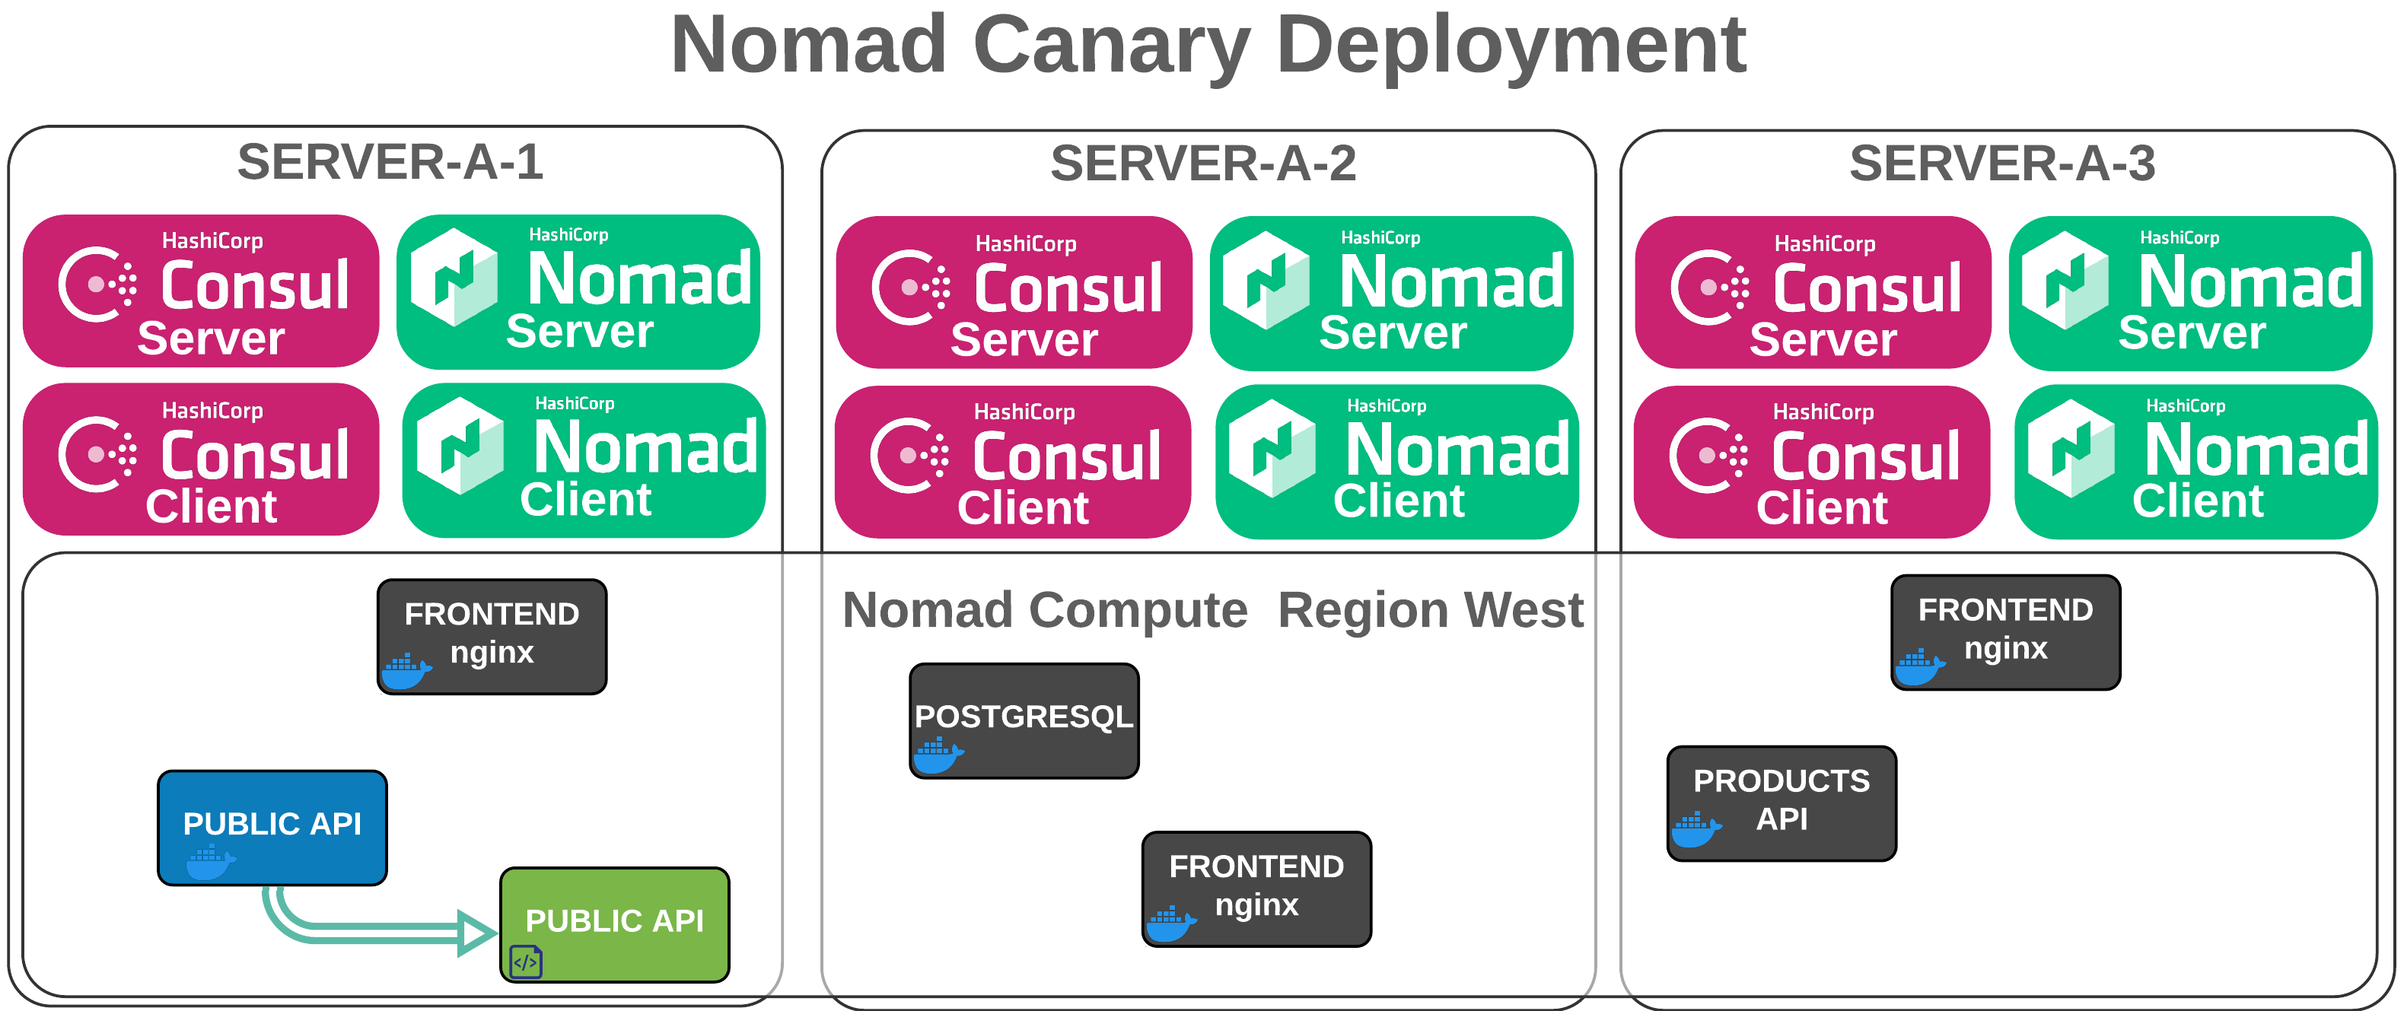
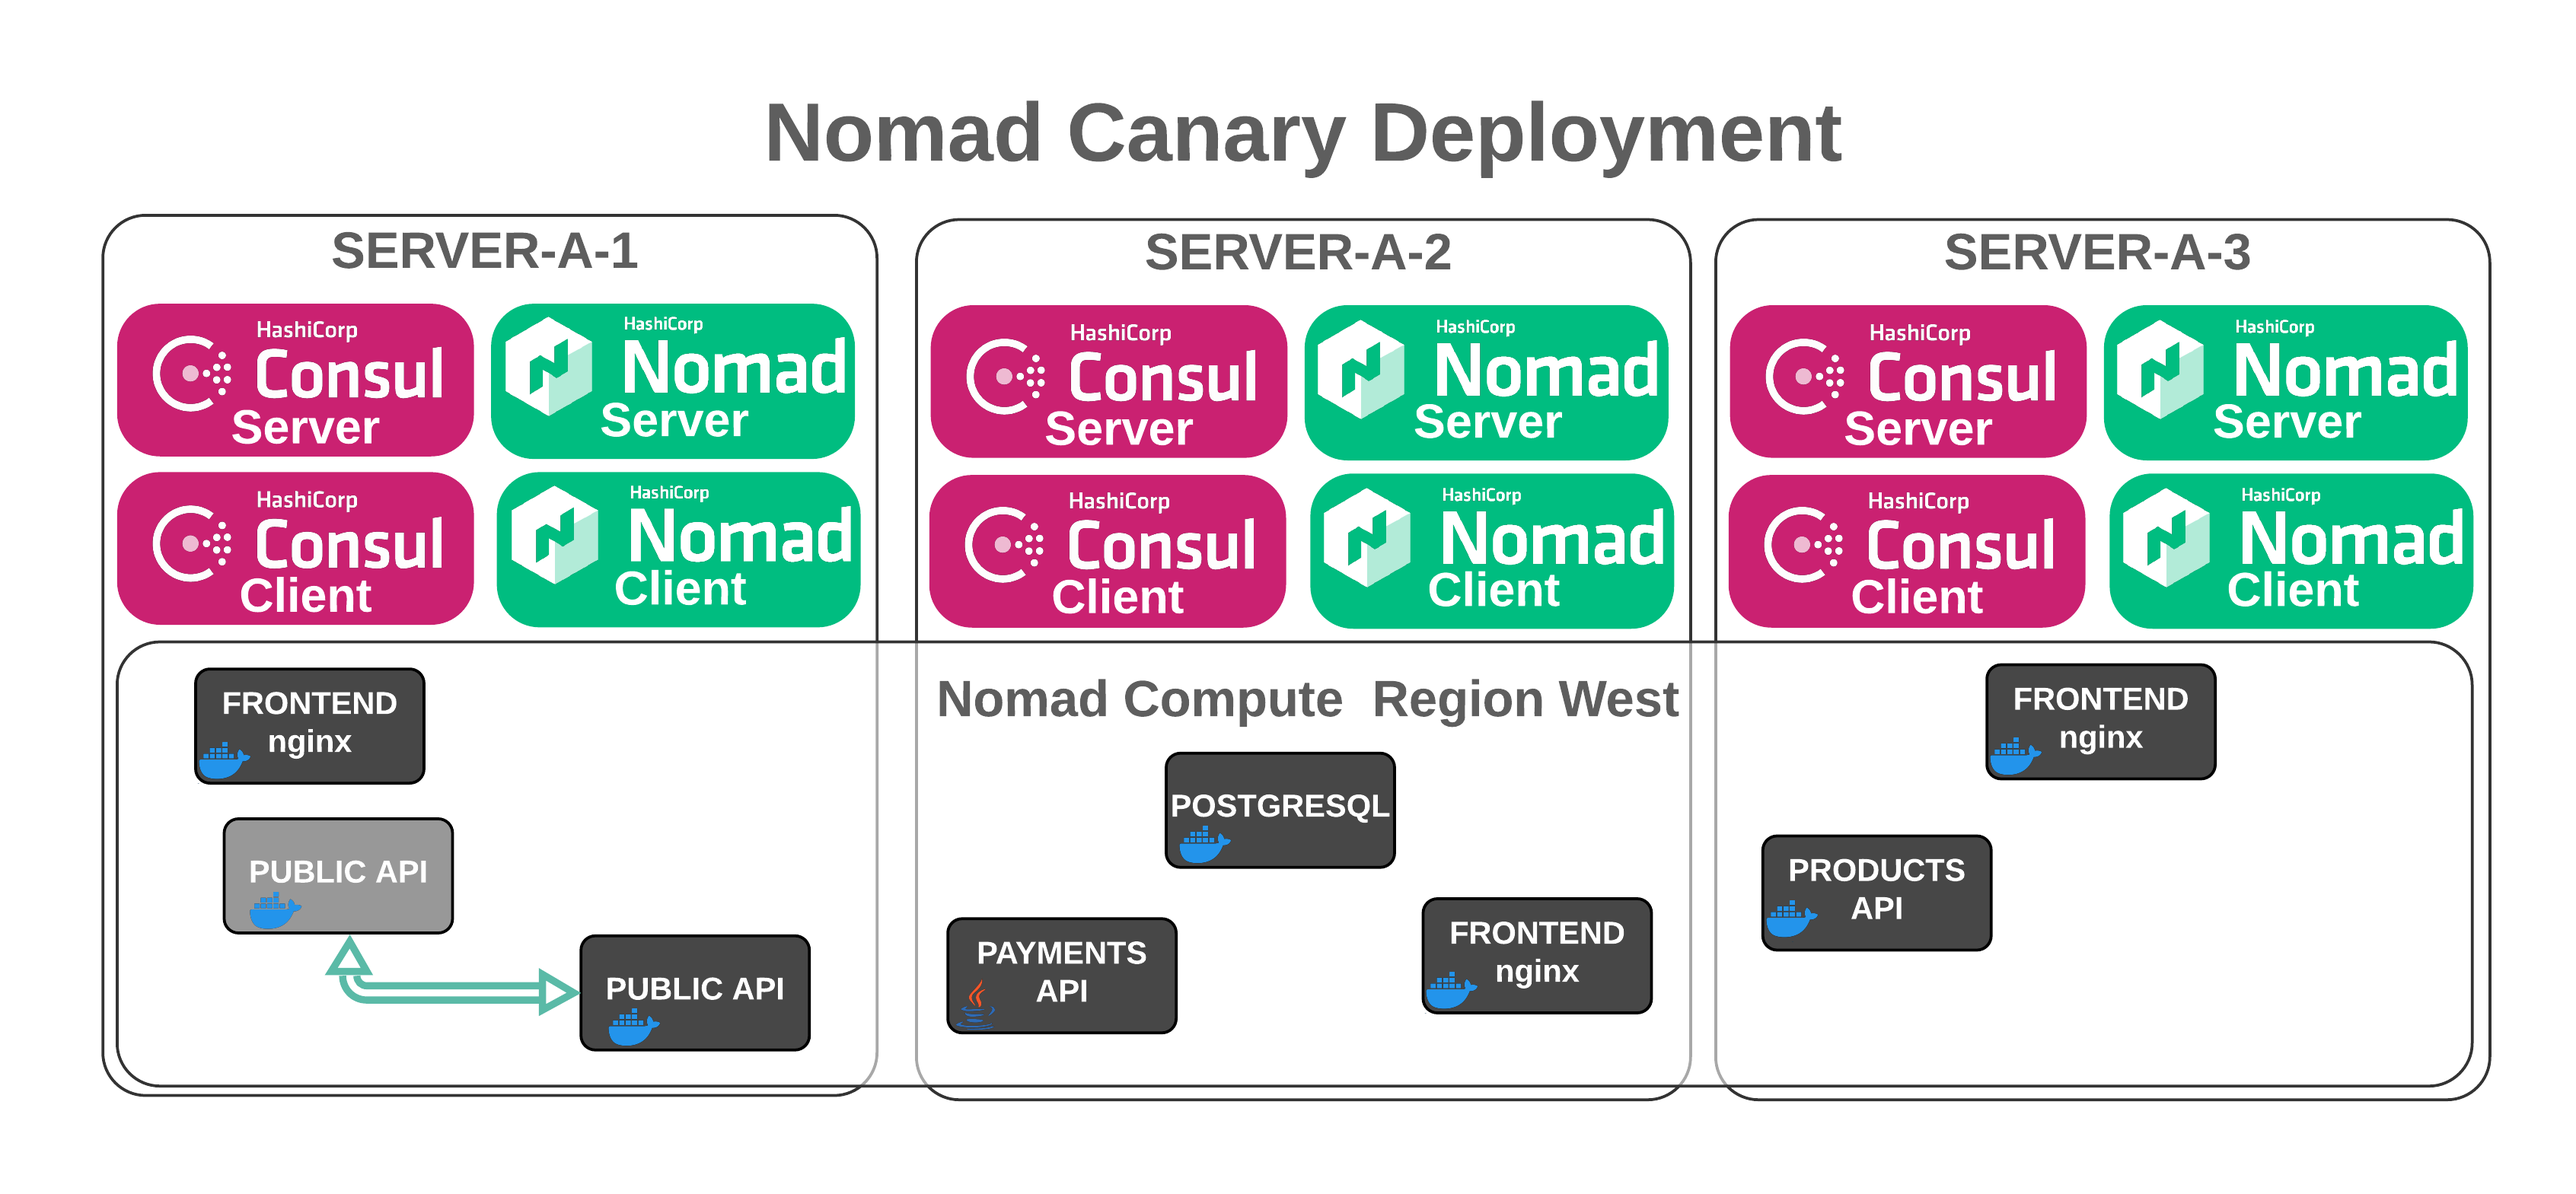
Updated images and slide deck

diff --git a/docs/slides/nomad-drifter.md b/docs/slides/nomad-drifter.md
@@ -49,7 +49,7 @@ name: current-state
 
 
 * HashiCups is 100% Container Based
-* Public API Function Needs Modification
+* Need Support for Online Payment
 * Management need us to expand across regions
 ]
 .center[![:scale 75%](images/LockedContainer.png)]
@@ -57,7 +57,7 @@ name: current-state
 ???
 Currently we are using an application to sell a lifesaving drug - caffeine.  The application is called 'HashiCups' and we found it on Github somewhere. Unfortunately we didn't find any working cloud access keys, the developers must have been using Vault.
 
-The challenge we are having is that although we saved a ton of money finding this application, it's all container based, and we aren't container specialists.  If we could just use the application as is, that wouldn't be a problem, but we need to modify the Public API functionality for our needs.
+The challenge we are having is that although we saved a ton of money finding this application, it's all container based, and we aren't container specialists.  If we could just use the application as is, that wouldn't be a problem, but we need to add the ability to process payments online.
 
 Also, management has pushed us for world domination, so we'll have to get the application working in another region without having to manage multiple databases and synchronization.  Oh my oh my what is an engineer to do?
 
